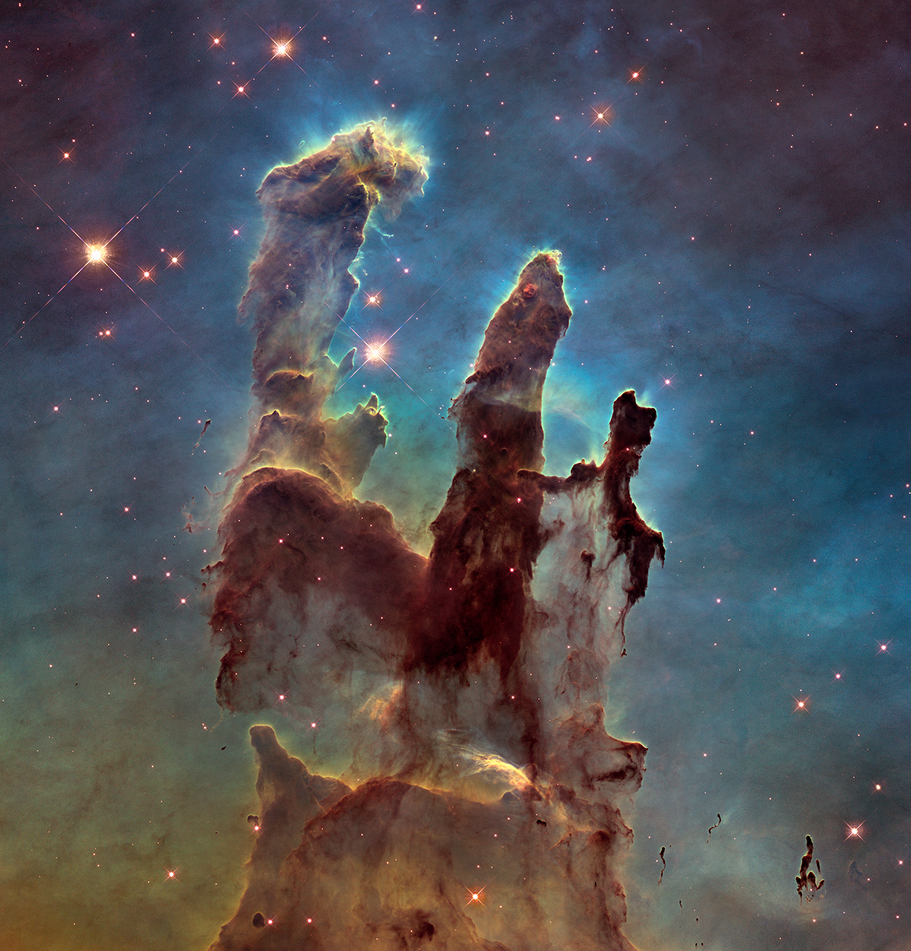
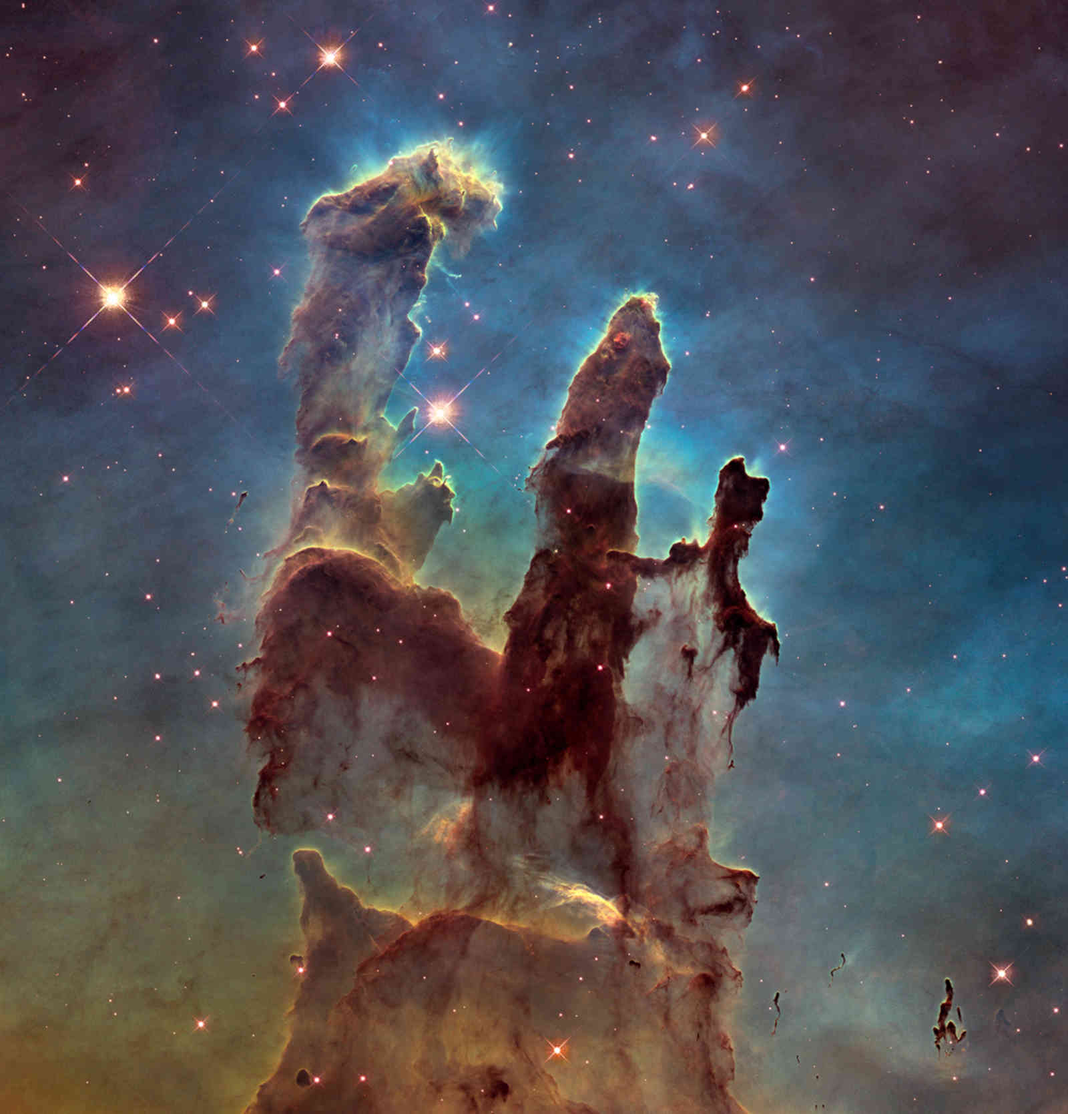
reduced img file size

diff --git a/index.html b/index.html
@@ -75,17 +75,17 @@
     <section id="projects" class="projects">
       <h1>Projects</h1>
       <div class="project-screenshots">
-        <img src="./img/projects/list-monkey.png" alt="list monkey" />
+        <img src="./img/projects/list-monkey.jpg" alt="list monkey" />
         <!-- https://www.listmonkey.net/ -->
         <img src="./img/projects/lambda-times.png" alt="Tikuna Gt" />
         <!-- https://luisan-lambda-times.netlify.com/ -->
-        <img src="./img/projects/movies.png" alt="notes" />
+        <img src="./img/projects/movies.jpg" alt="notes" />
         <!--  -->
         <img src="./img/projects/notes-app.png" alt="list monkey" />
         <!-- https://luisan-notes.netlify.com/note-list -->
-        <img src="./img/projects/s&j-architects.png" alt="Tikuna Gt" />
+        <img src="./img/projects/s&j-architects.jpg" alt="Tikuna Gt" />
         <!-- https://luisansuarez.github.io/S-J-Architects/ -->
-        <img src="./img/projects/todos.png" alt="notes" />
+        <img src="./img/projects/todos.jpg" alt="notes" />
         <!--  -->
       </div>
     </section>

diff --git a/css/main.css b/css/main.css
@@ -323,7 +323,7 @@ section {
 }
 
 .headshot {
-  background-image: url("../img/headshot.png");
+  background-image: url("../img/headshot.jpg");
   background-position: 50% 38%; /* Center the image */
   background-size: 135%;
   height: 30vw;
@@ -412,6 +412,7 @@ section {
 
 .contact h3 {
   font-size: 24px;
+  text-align: center;
 }
 
 .contact p {
